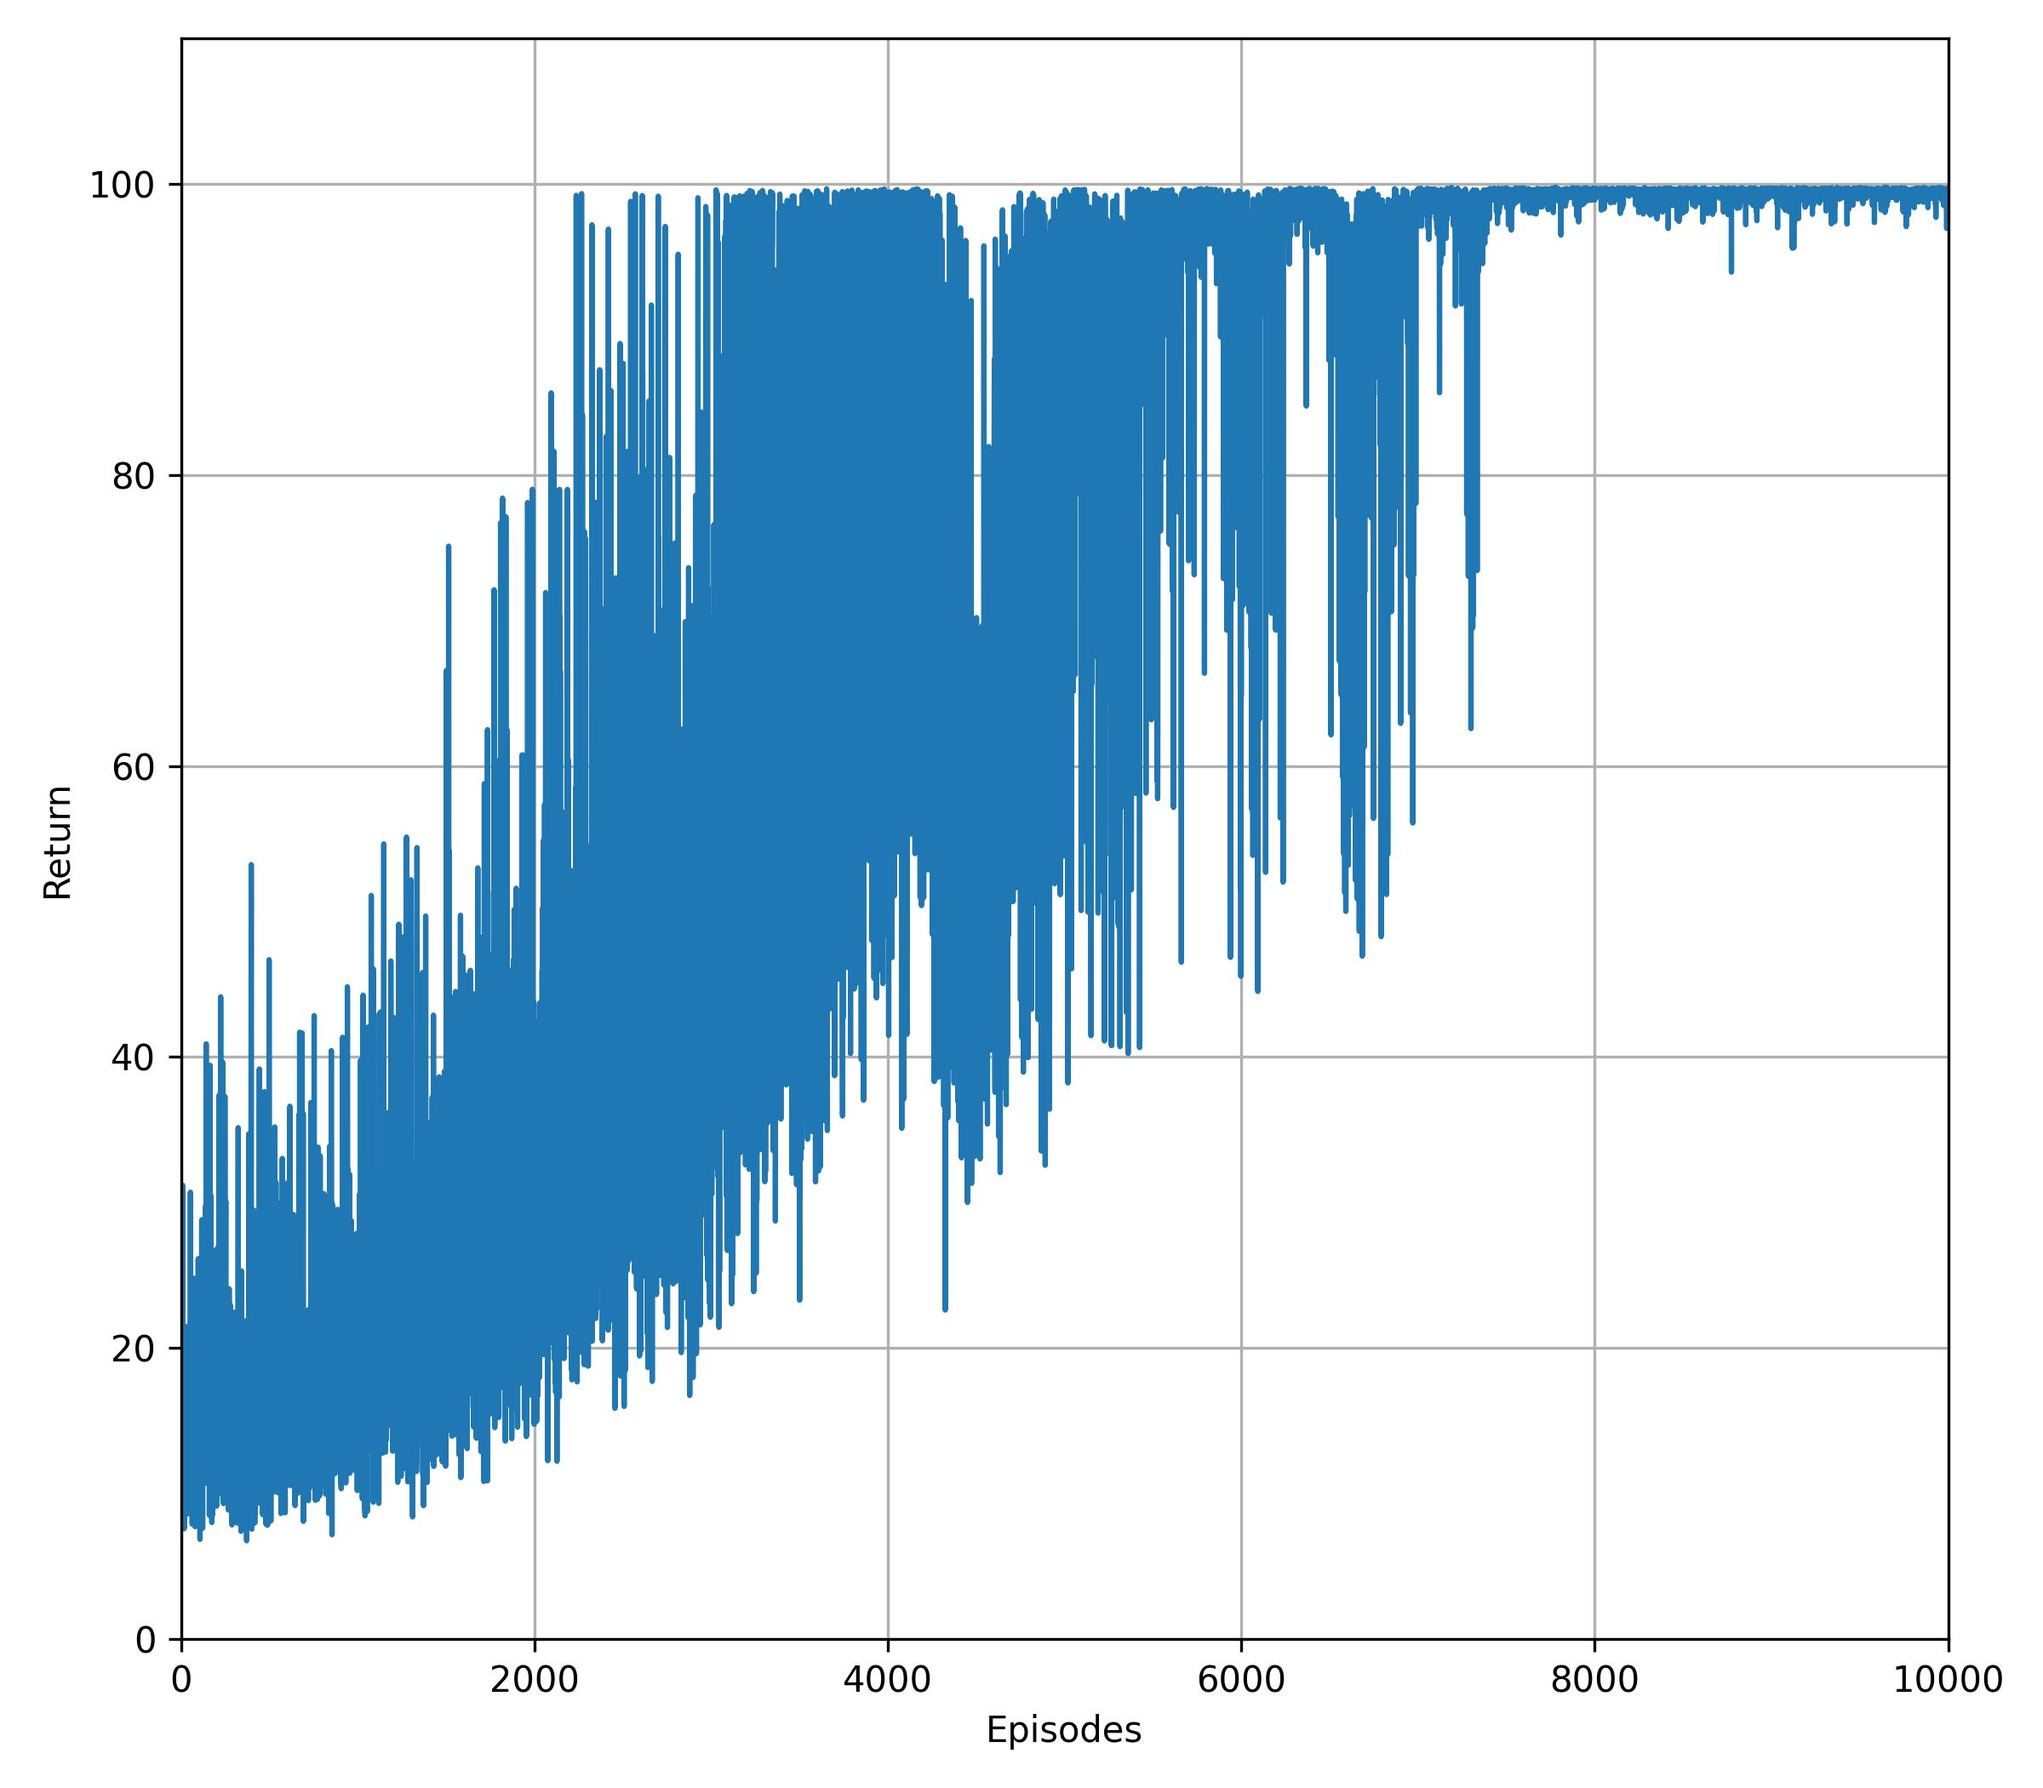
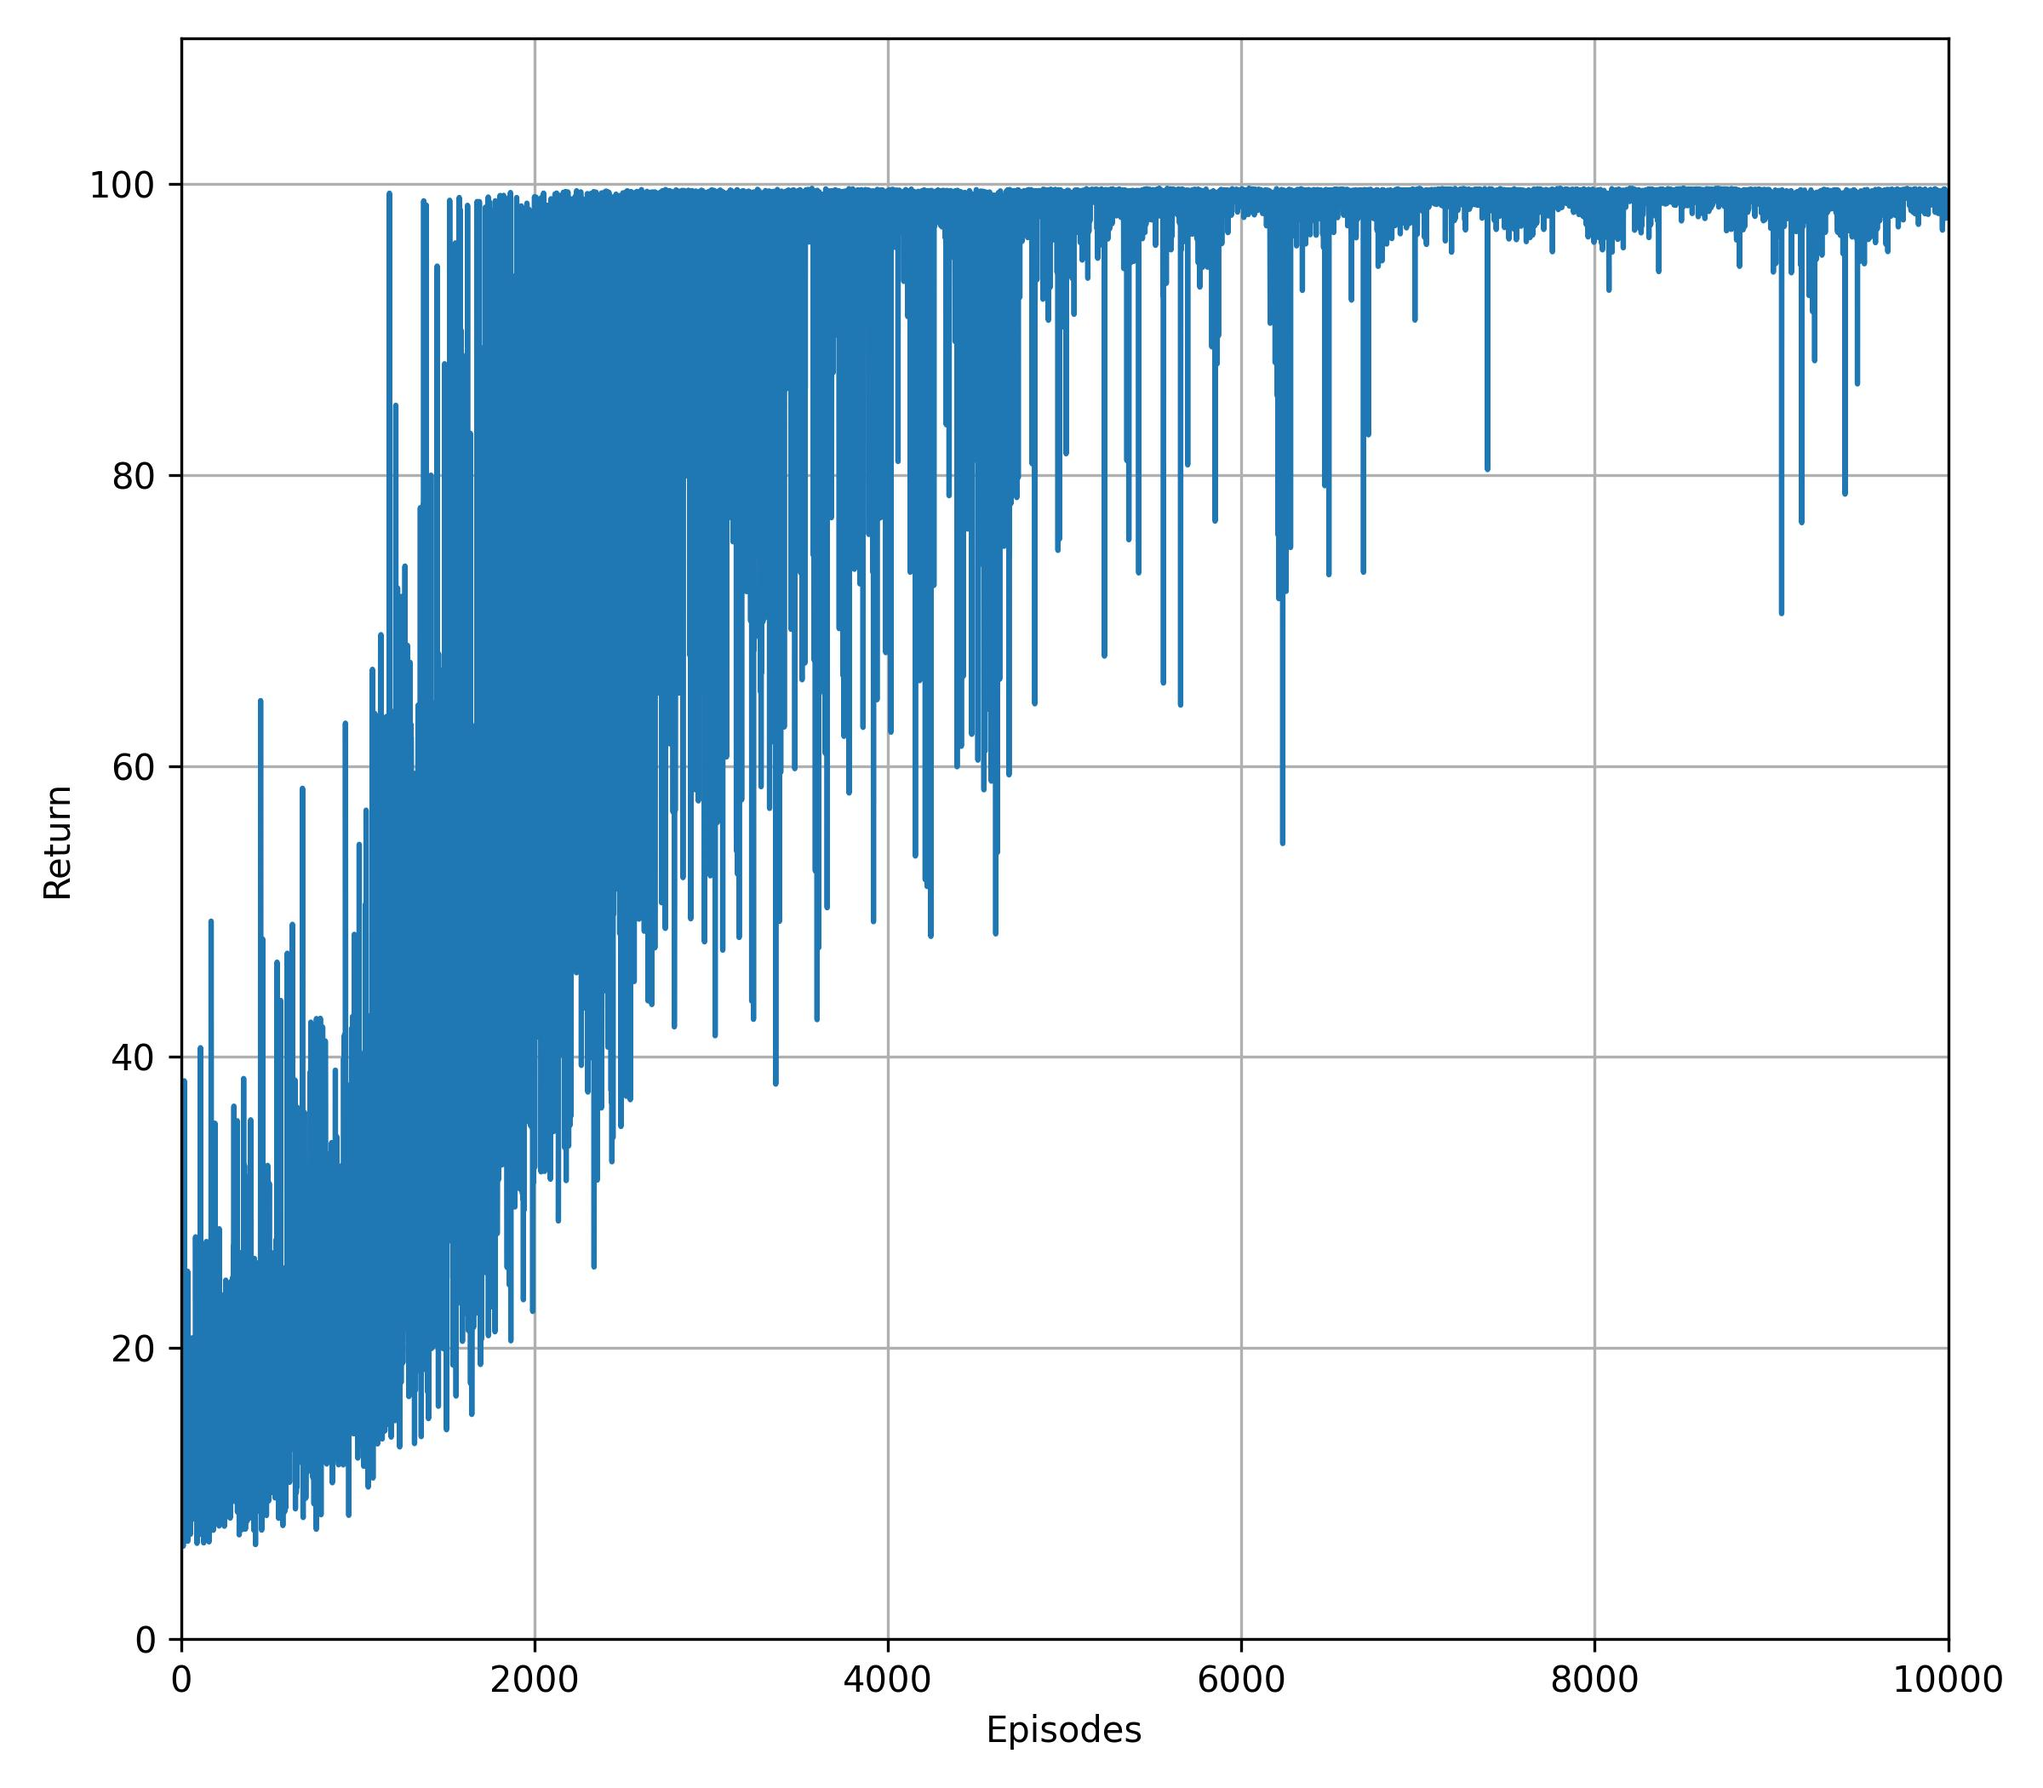
fix: torch dimensions readjusted

Changed region(s): [[0.0625, 0.0929, 0.9688, 0.8667]]

diff --git a/src/agents.py b/src/agents.py
@@ -25,34 +25,34 @@ class Agent(nn.Module):
         
         self.log_sigma = torch.ones(1, dtype=torch.double, requires_grad=True)
 
-    def pi(self, state: np.ndarray) -> torch.distributions.MultivariateNormal:
+    def pi(self, state: np.ndarray) -> torch.distributions.Normal:
         state = torch.as_tensor(state).double()
         
         # Parameters
-        mu = self.actor(state)
+        mu = self.actor(state).squeeze()
         log_sigma = self.log_sigma
         sigma = torch.exp(log_sigma)
         
         # Distribution
-        pi = torch.distributions.MultivariateNormal(mu, torch.diag(sigma))
+        pi = torch.distributions.Normal(mu, torch.diag(sigma))
         return pi
 
     def evaluate_logprob(self, state: torch.Tensor, action: torch.Tensor) -> torch.Tensor:
         # Actor
         dist = self.pi(state)
-        action_logprob = dist.log_prob(action.reshape(-1, 1))
-        return action_logprob
+        action_logprob = dist.log_prob(action)
+        return action_logprob.squeeze()
     
     def evaluate_value(self, state: torch.Tensor) -> torch.Tensor:
         # Critic
         value = self.critic(state)
-        return value
+        return value.squeeze()
 
     def act(self, state: np.ndarray) -> Tuple[np.ndarray, np.ndarray]:
         dist = self.pi(state)
         action = dist.sample()
         action_logprob = dist.log_prob(action)
-        return action.detach(), action_logprob.detach()
+        return action.detach().flatten(), action_logprob.detach().flatten()
 
 
 class PPOAgent:
@@ -109,13 +109,11 @@ class PPOAgent:
 
     def update(self):
         rewards = self.calculate_returns()
-        rewards = torch.as_tensor(rewards).reshape(-1, 1).double().detach()
+        rewards = torch.as_tensor(rewards).double().detach().squeeze()
 
         old_states = torch.stack(self.buffer.states, dim=0).detach()
-        old_states_next = torch.stack(self.buffer.states, dim=0).detach()
-        old_actions = torch.stack(self.buffer.actions, dim=0).detach()
-        old_logprobs = torch.stack(self.buffer.logprobs, dim=0).detach()
-        old_logprobs = torch.stack(self.buffer.logprobs, dim=0).detach()
+        old_actions = torch.stack(self.buffer.actions, dim=0).detach().squeeze()
+        old_logprobs = torch.stack(self.buffer.logprobs, dim=0).detach().squeeze()
         
         self.buffer.clear()
 
@@ -131,7 +129,7 @@ class PPOAgent:
             minorizer_raw = ratio * advantage
             minorizer_clamped = ratio_clamped * advantage
 
-            loss_actor = -torch.min(minorizer_raw, minorizer_clamped) 
+            loss_actor = -torch.min(minorizer_raw, minorizer_clamped)
             loss_critic = self.MseLoss(rewards, state_values)
             
             # Actor

diff --git a/main.py b/main.py
@@ -11,7 +11,7 @@ EPOCHS = 10_000         # max number of episodes
 MAX_STEPS = 100         # max timesteps in one episode
 UPDATE_FREQ = 40        # steps frequency to update
 TRAINING_EPOCHS = 40    # update policy for K epochs in one PPO update
-EPS_CLIP = 0.1          # clip parameter for PPO
+EPS_CLIP = 0.2          # clip parameter for PPO
 GAMMA = 0.99            # discount factor
 LR_ACTOR = 1e-5         # learning rate for actor network
 LR_CRITIC = 1e-4        # learning rate for critic network

diff --git a/src/algorithms.py b/src/algorithms.py
@@ -17,11 +17,10 @@ def train(
         state = env.reset()
         cum_reward = 0
 
-        for step in range(max_steps):
+        for _ in range(max_steps):
             action = ppo_agent.select_action(state)
             state_next, reward, done, _ = env.step(action)
             
-            ppo_agent.buffer.states_next.append(state_next)
             ppo_agent.buffer.rewards.append(reward)
             ppo_agent.buffer.terminals.append(done)
             cum_reward += reward

diff --git a/src/utils.py b/src/utils.py
@@ -2,7 +2,6 @@ class Buffer:
     def __init__(self):
         self.actions = []
         self.states = []
-        self.states_next = []
         self.logprobs = []
         self.rewards = []
         self.terminals = []
@@ -10,7 +9,6 @@ class Buffer:
     def clear(self):
         self.actions = []
         self.states = []
-        self.states_next = []
         self.logprobs = []
         self.rewards = []
         self.terminals = []
